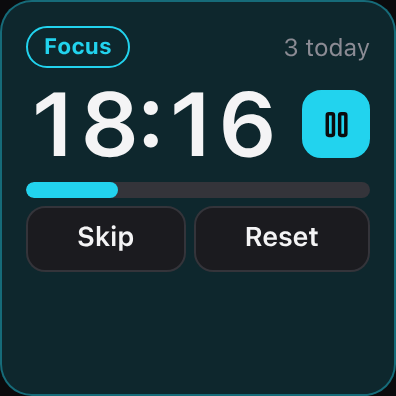
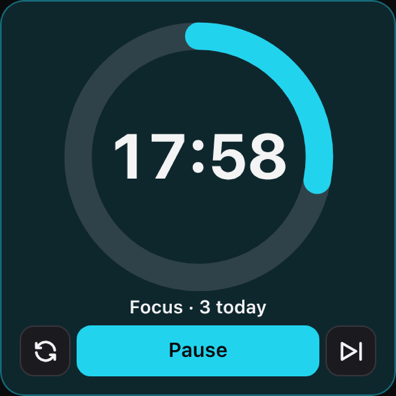
Pomodoro: a ring, with a layout for each tile size
The time left sits in a ring that fills as the phase runs. A square tile has the
ring on top, a wide one on the left, chosen from the tile's size (Nookdeck
0.5.1). Start and Pause are one large button in the phase's colour. A 2x1 tile
leaves Reset out for lack of room.

Refs #4

diff --git a/plugins/pomodoro/test/pomodoro.test.ts b/plugins/pomodoro/test/pomodoro.test.ts
@@ -50,12 +50,33 @@ describe("the timer", () => {
   test("the clock rounds up", () => {
     expect([clock(25 * MIN), clock(24 * MIN + 59_001), clock(1), clock(0), clock(120 * MIN)]).toEqual(["25:00", "25:00", "00:01", "00:00", "120:00"]);
   });
-  test("the card says what the buttons will do", () => {
-    const find = (s: State) => JSON.stringify(buildCard(s, { "2026-11-25": 3 }, len, at(25, 9)));
-    expect(find(START)).toContain('"icon":"player-play","action":"toggle"');
-    expect(find(START)).toContain('"text":"3 today"');
-    expect(find(toggle(START, len, at(25, 9)))).toContain('"icon":"player-pause","action":"toggle","active":true');
-    expect(find({ phase: "break", status: "paused", left: MIN, total: 5 * MIN })).toContain('"tone":"muted"},{"t":"button","label":"","icon":"player-play"');
+  test("the ring shows the time left and how far the phase is", () => {
+    const running = toggle(START, len, at(25, 9));
+    const root = buildCard(running, { "2026-11-25": 3 }, len, at(25, 9, 10), { w: 2, h: 2 }).root as any;
+    expect(root.children[0]).toEqual({ t: "ring", value: 0.4, tone: "accent", text: "15:00", size: "l", label: "Focus · 3 today" });
+    const paused = buildCard({ phase: "break", status: "paused", left: MIN, total: 5 * MIN }, {}, len, at(25, 9), { w: 2, h: 2 }).root as any;
+    expect(paused.children[0]).toMatchObject({ value: 0.8, tone: "muted", text: "01:00", label: "Break paused · 0 today" });
+    expect((buildCard(toggle(skip(START), len, at(25, 9)), {}, len, at(25, 9)).root as any).children[0].tone).toBe("ok");
+  });
+  test("the main button says what it will do and stands out", () => {
+    const find = (s: State) => JSON.stringify(buildCard(s, {}, len, at(25, 9), { w: 2, h: 2 }));
+    expect(find(START)).toContain('"label":"Start","action":"toggle","tone":"accent","active":true');
+    expect(find(toggle(START, len, at(25, 9)))).toContain('"label":"Pause","action":"toggle"');
+    const resting: State = { phase: "break", status: "paused", left: MIN, total: 5 * MIN };
+    expect(find(resting)).toContain('"label":"Start","action":"toggle","tone":"ok"');
+    expect(JSON.stringify(buildCard(resting, {}, len, at(25, 9), { w: 4, h: 2 }))).toContain('"label":"Resume","icon":"player-play"');
+  });
+  test("the tile's size chooses where the ring goes", () => {
+    const build = (w: number, h: number) => buildCard(START, { "2026-11-25": 3 }, len, at(25, 9), { w, h }).root as any;
+    expect([build(2, 2).t, build(2, 1).t, build(4, 2).t]).toEqual(["col", "row", "row"]);
+    for (const [w, h] of [[2, 1], [2, 2], [4, 2]] as const) {
+      const json = JSON.stringify(build(w, h));
+      for (const action of h === 1 ? ["toggle", "skip"] : ["toggle", "skip", "reset"]) expect(json).toContain(`"action":"${action}"`);
+      expect(json).toContain(h === 1 ? '"text":"Focus"' : "3 today");
+    }
+    expect(build(2, 1).children[1].children).toHaveLength(2);
+    expect(JSON.stringify(build(4, 2))).toContain('"t":"pill","text":"Focus"');
+    expect((buildCard(START, {}, len, at(25, 9)).root as any).t).toBe("col");
   });
 });
 
@@ -63,7 +84,7 @@ describe("the timer", () => {
 function harness(store = new Map<string, unknown>(), clockRef = { now: at(25, 9) }) {
   const pushes: any[] = [];
   const acts: Record<string, (s: any) => any> = {};
-  let provide: () => Promise<any> = async () => null;
+  let provide: (tile?: { w: number; h: number }) => Promise<any> = async () => null;
   let tick: (() => void) | null = null;
   const plugin = createPlugin({ now: () => clockRef.now, every: (fn) => { tick = fn; return () => { tick = null; }; } });
   void plugin.activate({
@@ -71,7 +92,7 @@ function harness(store = new Map<string, unknown>(), clockRef = { now: at(25, 9)
     settings: { get: () => ({ focus: 25, break: 5 }) },
     storage: { get: async (k: string) => store.get(k) ?? null, set: async (k: string, v: unknown) => { store.set(k, structuredClone(v)); } },
     net: { fetch: async () => { throw new Error("no network"); } },
-    widgets: { provide: (_id: string, fn: any) => { provide = () => fn({}); }, push: (_id: string, u: any) => pushes.push(u) },
+    widgets: { provide: (_id: string, fn: any) => { provide = (tile) => fn({}, tile ?? { w: 2, h: 2 }); }, push: (_id: string, u: any) => pushes.push(typeof u === "function" ? { wide: u({ w: 4, h: 2 }), square: u({ w: 2, h: 2 }) } : u) },
     actions: { handle: (id: string, fn: any) => { acts[id] = fn; } },
   } as any);
   const settleTicks = () => new Promise((r) => setTimeout(r, 5));
@@ -93,7 +114,9 @@ describe("the plugin", () => {
     expect(h.ticking()).toBe(true);
     h.clockRef.now += 1000;
     await h.tick();
-    expect(JSON.stringify(h.pushes.at(-1))).toContain('"value":"24:59"');
+    expect(h.pushes.at(-1).square.data.root.t).toBe("col");
+    expect(h.pushes.at(-1).wide.data.root.t).toBe("row");
+    expect(JSON.stringify(h.pushes.at(-1))).toContain('"text":"24:59"');
     await h.act("toggle");
     expect(h.ticking()).toBe(false);
   });
@@ -105,9 +128,9 @@ describe("the plugin", () => {
     a.clockRef.now += 40 * MIN;
     const b = harness(a.store, a.clockRef);
     const card = await b.card();
-    expect(card).toContain('"text":"Break"');
-    expect(card).toContain('"text":"1 today"');
-    expect(await b.card()).toContain('"text":"1 today"');
+    expect(card).toContain('"label":"Break · 1 today"');
+    expect(card).toContain('1 today"');
+    expect(await b.card()).toContain('1 today"');
     expect(b.ticking()).toBe(false);
   });
 
@@ -117,7 +140,7 @@ describe("the plugin", () => {
     a.plugin.deactivate!();
     a.clockRef.now += 10 * MIN;
     const b = harness(a.store, a.clockRef);
-    expect(await b.card()).toContain('"value":"15:00"');
+    expect(await b.card()).toContain('"text":"15:00"');
     expect(b.ticking()).toBe(true);
   });
 

diff --git a/plugins/pomodoro/src/lib.ts b/plugins/pomodoro/src/lib.ts
@@ -90,27 +90,50 @@ export function clock(ms: number): string {
   return `${String(Math.floor(s / 60)).padStart(2, "0")}:${String(s % 60).padStart(2, "0")}`;
 }
 
-export function buildCard(state: State, days: Days, len: Lengths, now: number) {
+/** A tile's size in grid cells. */
+export interface Tile { w: number; h: number }
+
+/**
+ * The timer as a ring: the time left in the middle, the arc filling as the phase runs. A tile at least twice as wide as it is
+ * high has the ring on the left and the buttons beside it; a squarer one has the ring on top. Without a size (the preview, an
+ * older Nookdeck) it takes the square one.
+ */
+export function buildCard(state: State, days: Days, len: Lengths, now: number, tile?: Tile) {
   const { left, total } = remaining(state, len, now);
   const tone = state.phase === "focus" ? "accent" : "ok";
   const running = state.status === "running";
-  return {
-    root: { t: "col", gap: 1, children: [
-      { t: "row", gap: 1, align: "between", children: [
-        { t: "pill", text: state.phase === "focus" ? "Focus" : "Break", tone },
-        { t: "text", text: `${days[dayKey(now)] ?? 0} today`, size: "s", tone: "muted" },
-      ] },
-      // A short tile drops the end of a column first (a 2x1 shows down to about here): the time and its main button come early,
-      // and the main button is an icon so it fits beside the time.
-      { t: "row", gap: 2, align: "between", children: [
-        { t: "number", value: clock(left), size: "xl", ...(state.status === "paused" ? { tone: "muted" } : {}) },
-        { t: "button", label: "", icon: running ? "player-pause" : "player-play", action: "toggle", ...(running ? { active: true } : {}) },
-      ] },
-      { t: "progress", value: Math.round(Math.min(1, Math.max(0, 1 - left / total)) * 1000) / 1000, tone },
-      { t: "row", gap: 1, children: [
-        { t: "button", label: "Skip", action: "skip" },
-        { t: "button", label: "Reset", action: "reset" },
-      ] },
-    ] },
+  const paused = state.status === "paused";
+  const phase = state.phase === "focus" ? "Focus" : "Break";
+  const count = `${days[dayKey(now)] ?? 0} today`;
+  const said = `${paused ? `${phase} paused` : phase} · ${count}`;
+  const ring = {
+    t: "ring", value: Math.round(Math.min(1, Math.max(0, 1 - left / total)) * 1000) / 1000,
+    tone: paused ? "muted" : tone, text: clock(left), size: "l",
   };
+  const icon = running ? "player-pause" : "player-play";
+  // filled in the phase's colour both ways, so it is the one button that stands out
+  const main = (label: string, withIcon = true) => ({ t: "button", label, ...(withIcon ? { icon } : {}), action: "toggle", tone, active: true });
+  const word = running ? "Pause" : paused ? "Resume" : "Start";
+  const reset = { t: "button", label: "", icon: "refresh", action: "reset" };
+  const skipIt = { t: "button", label: "", icon: "player-skip-forward", action: "skip" };
+
+  if (!tile || tile.w < tile.h * 2) {
+    return { root: { t: "col", gap: 1, children: [
+      { ...ring, label: said },
+      // between two icon buttons there is room for the word or an icon, not both: "Paused" is said under the ring
+      { t: "row", gap: 1, children: [reset, main(running ? "Pause" : "Start", false), skipIt] },
+    ] } };
+  }
+  const side = tile.h <= 1
+    // one row high: two short lines beside the ring, with room for the phase's name and two buttons
+    ? [{ t: "text", text: paused ? "Paused" : phase, size: "s", tone: "muted" }, { t: "row", gap: 1, children: [main(""), skipIt] }]
+    : [
+        { t: "row", gap: 1, align: "between", children: [{ t: "pill", text: paused ? `${phase} paused` : phase, tone }, { t: "text", text: count, size: "s", tone: "muted" }] },
+        { t: "row", children: [main(word)] },
+        { t: "row", gap: 1, children: [
+          { t: "button", label: "Reset", action: "reset" },
+          { t: "button", label: "Skip", action: "skip" },
+        ] },
+      ];
+  return { root: { t: "row", gap: 2, children: [ring, { t: "col", gap: 1, grow: true, children: side }] } };
 }

diff --git a/plugins/pomodoro/src/index.ts b/plugins/pomodoro/src/index.ts
@@ -1,5 +1,5 @@
 import type { PluginContext, PluginModule } from "@nookdeck/plugin";
-import { buildCard, lengths, readDays, readState, reset, settle, skip, toggle, type Days, type Lengths, type State } from "./lib";
+import { buildCard, lengths, readDays, readState, reset, settle, skip, toggle, type Days, type Lengths, type State, type Tile } from "./lib";
 
 /** A tap that arrives just after the phase ran out was meant for the old card: it must not start the next phase. */
 export const LATE_TAP_MS = 2_000;
@@ -45,16 +45,17 @@ export function createPlugin(env: Env = real): PluginModule {
         stopTick = env.every(() => {
           void locked(async () => {
             const { state, days } = await load();
-            ctx.widgets.push("timer", { render: "card", data: buildCard(state, days, len(), env.now()) });
+            // each tile gets the layout for its own size
+            ctx.widgets.push("timer", (tile?: Tile) => ({ render: "card" as const, data: buildCard(state, days, len(), env.now(), tile) }));
             follow(state);
           }).catch((err) => ctx.log("tick failed:", err instanceof Error ? err.message : err));
         }, 1000);
       }
 
-      ctx.widgets.provide("timer", () => locked(async () => {
+      ctx.widgets.provide("timer", (_settings: unknown, tile?: Tile) => locked(async () => {
         const { state, days } = await load();
         follow(state);
-        return { render: "card", data: buildCard(state, days, len(), env.now()) };
+        return { render: "card", data: buildCard(state, days, len(), env.now(), tile) };
       }), { every: 5 });
 
       const on = (id: string, change: (s: State) => State) => ctx.actions.handle(id, () => locked(async () => {

diff --git a/plugins/pomodoro/README.md b/plugins/pomodoro/README.md
@@ -2,10 +2,10 @@
 
 A focus timer on one tile. Works on macOS, Windows and Linux.
 
-<img src="preview.png" width="264" alt="A 2x2 Pomodoro tile with demo data: 18 minutes left of a focus block, 3 done today">
+<img src="preview.png" width="264" alt="A 2x2 Pomodoro tile with demo data: a ring with the time left of a focus block, 3 done today, and a Pause button">
 
-- The time left, a progress bar, and how many focus blocks you finished today.
-- A play / pause button beside the time, **Skip** (to the other phase) and **Reset** (this phase from the top). A 2x1 tile has room for the time and play / pause only. Each one is also an action you can put on a normal button.
+- A ring with the time left in the middle. It fills as the phase runs: your accent colour for focus, green for a break, grey while paused. With it, how many focus blocks you finished today.
+- A large **Start** / **Pause** button, with **Reset** (this phase from the top) and **Skip** (to the other phase). A square tile has the ring on top; a wide one has it on the left. A 2x1 tile has room for the ring, the phase, play / pause and **Skip**. Each button is also an action you can put on a normal button.
 - When a phase ends, the next one waits for you to press Start. There is no sound.
 
 The timer runs on the computer, so it keeps time while the phone sleeps or is closed. It saves the time each phase ends, so it is still right after Nookdeck or the computer restarts. The tile updates every second only while a phase is running.
